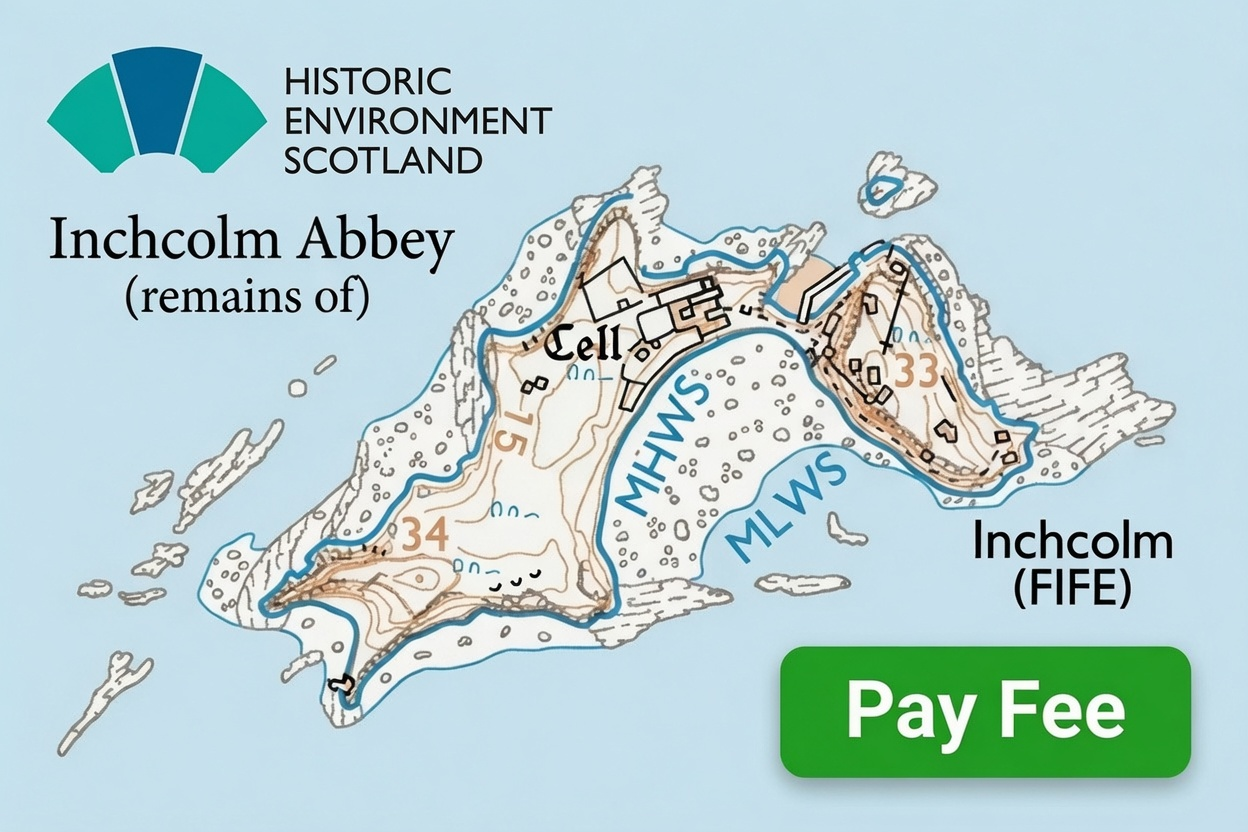
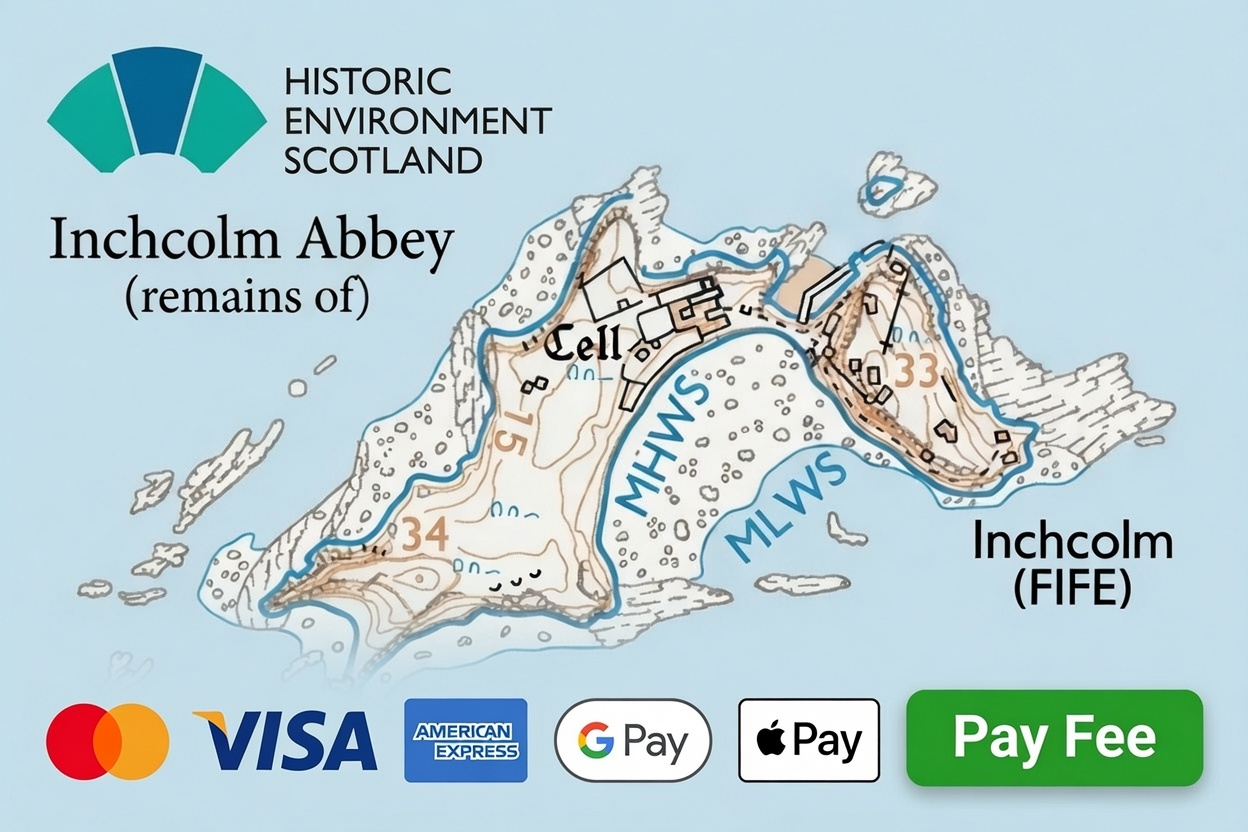
Image change

Changed region(s): [[0.0312, 0.6875, 0.9688, 0.9688], [0.7188, 0.3125, 0.75, 0.3438]]

diff --git a/frontend/app/(tabs)/schedule.tsx b/frontend/app/(tabs)/schedule.tsx
@@ -13,7 +13,7 @@ import { colors, spacing, radius, shadow } from "@/src/theme";
 import { ScreenBg } from "@/src/components/ScreenBg";
 
 const HERO = require("@/assets/images/brand/hero.jpg");
-const INCHOLM_PAY_BUTTON = require("@/assets/images/brand/IncholmPayButton_v2.jpg");
+const INCHOLM_PAY_BUTTON = require("@/assets/images/brand/IncholmPayButton.jpg");
 const LANDING_FEE_LINK = "https://pay.collctiv.com/inchcolm-island-landing-fee-74966";
 const LANDING_FEE_DATE = "2026-07-30";
 